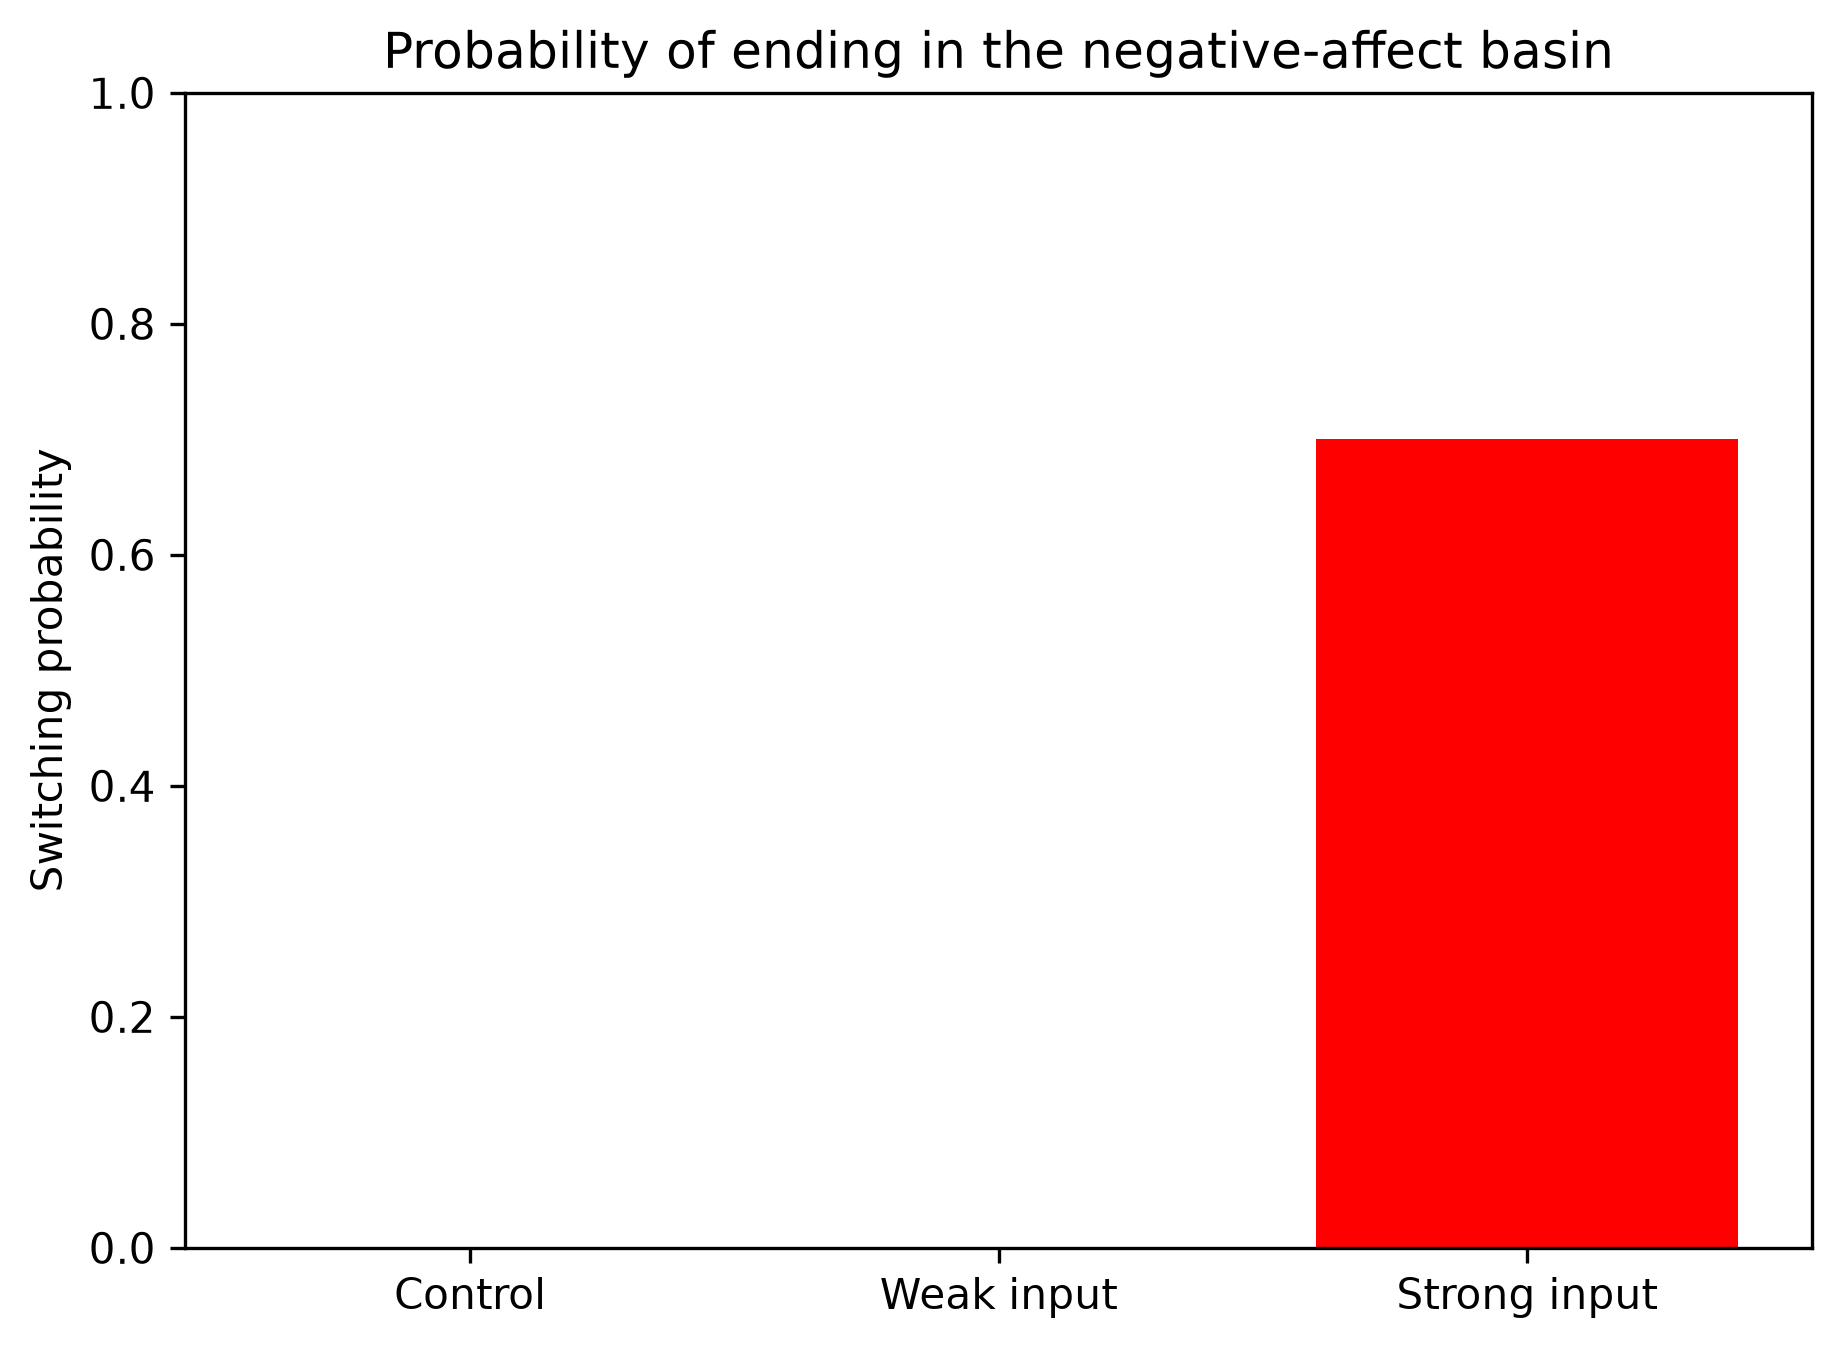
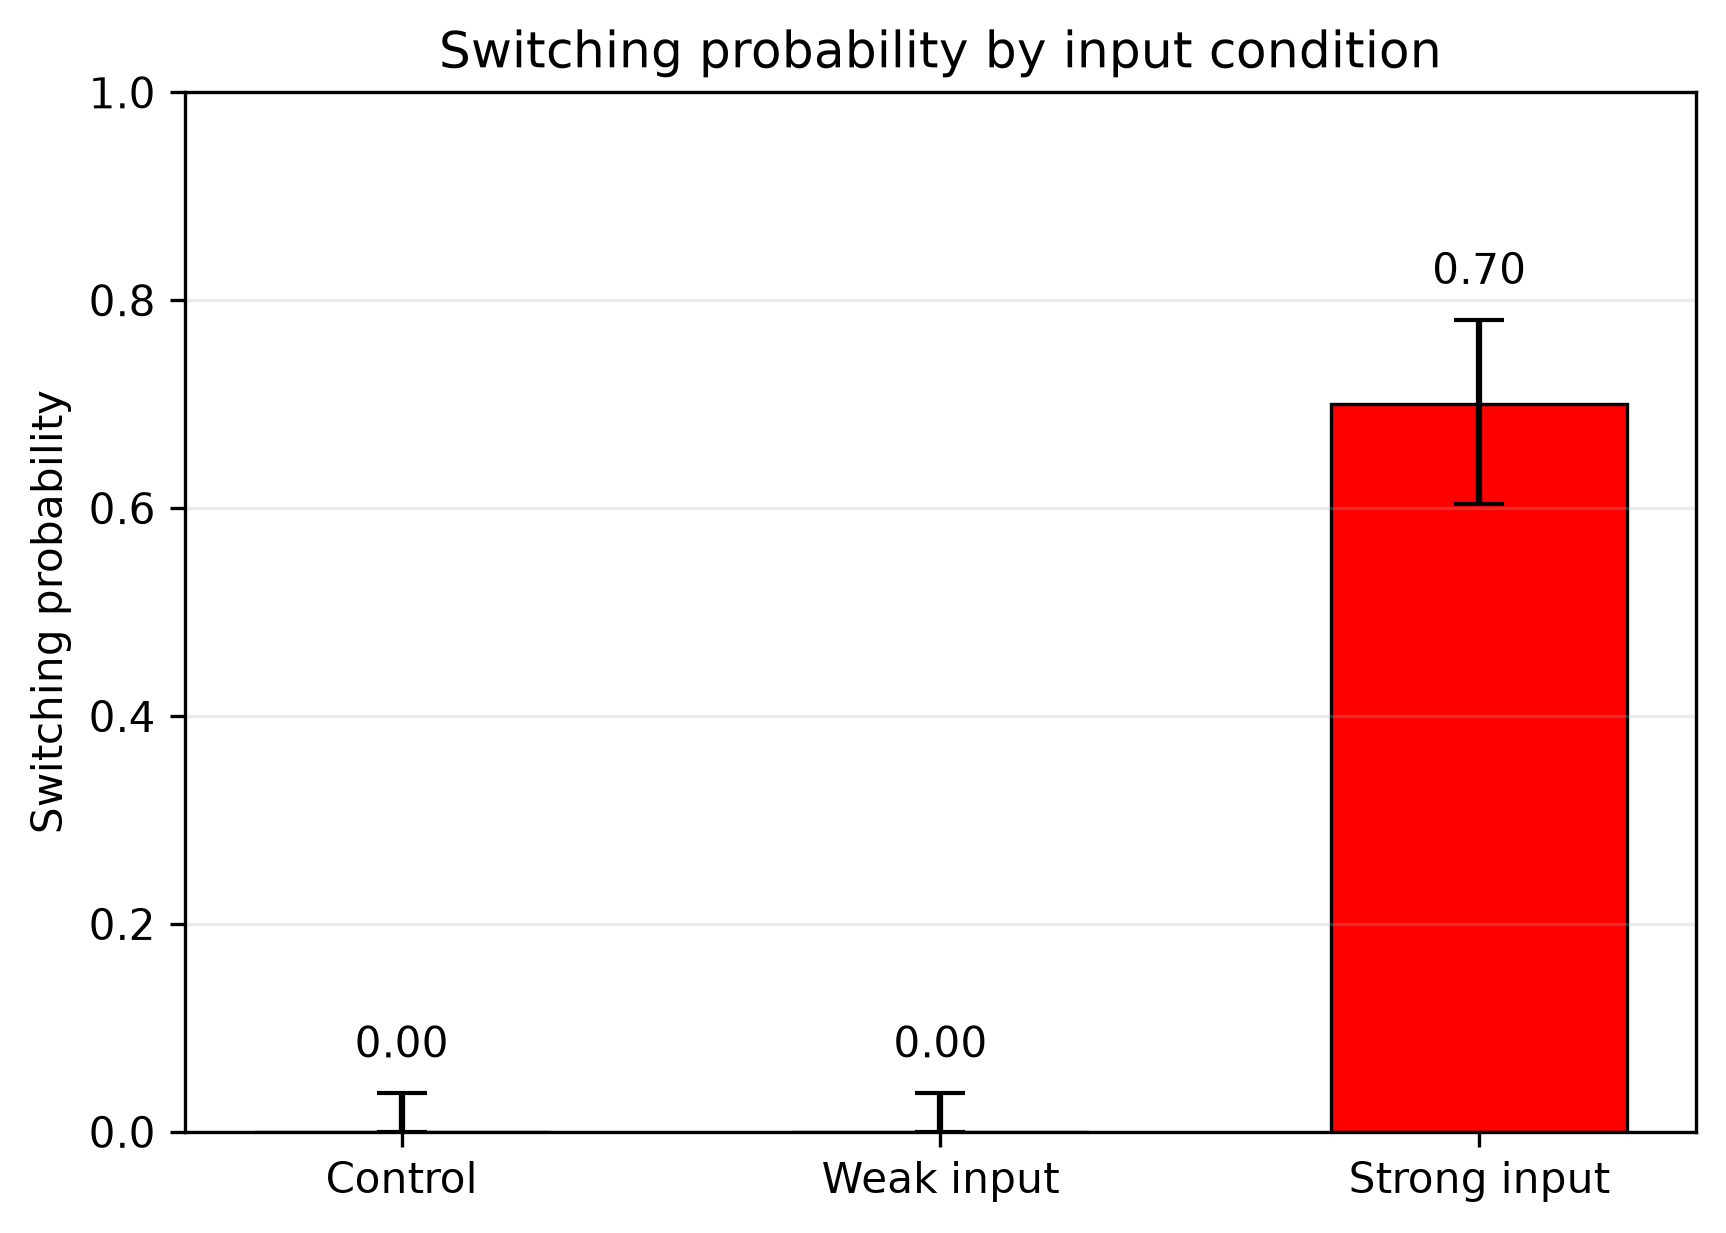
Add Monte Carlo confidence intervals

diff --git a/notebooks/06_switching_and_recovery.py b/notebooks/06_switching_and_recovery.py
@@ -40,7 +40,7 @@ print("Deepest m into negative for trajectory 1:", deepest_m_into_negative(traje
 print("Deepest m into negative for trajectory 2:", deepest_m_into_negative(trajectory2))
 # %%
 # now for N runs
-N_runs = 20 #we first use 20 runs as a pilot experiment
+N_runs = 100
 
 #we define the two negative inputs
 def weak_input(t):
@@ -169,10 +169,13 @@ for i in range(N_runs):
 # %%
 print(f"Control fraction ending in negative basin: {np.sum(ending_in_negative) / N_runs}")
 # %%
+plt.figure(figsize=(7, 5))
 plt.hist(deepest_m_values, bins=20)
 plt.title("Histogram of deepest m into negative basin")
 plt.xlabel("Deepest m value")
 plt.ylabel("Frequency")
+plt.show()
+plt.close()
 # %%
 fraction_below_threshold = []
 for threshold in np.linspace(-1, 1, 500):
@@ -185,6 +188,8 @@ plt.title("Fraction of trajectories with deepest m below threshold")
 plt.xlabel("Threshold")
 plt.ylabel("Fraction")
 plt.ylim(0, 1)
+plt.show()
+plt.close()
 
 # %%
 #we calculate the proportion of trajectories that end in the negative basin
@@ -247,26 +252,6 @@ switching_probabilities = [
     weak_probability,
     strong_probability
 ]
-
-plt.figure(figsize=(7, 5))
-
-plt.bar(
-    condition_names,
-    switching_probabilities,
-    color=["grey", "green", "red"]
-)
-
-plt.ylabel("Switching probability")
-plt.title("Probability of ending in the negative-affect basin")
-plt.ylim(0, 1)
-
-plt.savefig(
-    PROJECT_ROOT / "results/figures/monte_carlo_switching.png",
-    dpi=300,
-    bbox_inches="tight"
-)
-
-plt.show()
 # %%
 #we draw the recovery outcomes for the strong negative input
 
@@ -310,3 +295,98 @@ plt.savefig(
 )
 
 plt.show()
+plt.close()
+# %%
+#finally, we calculate the confidence intervals for the switching probabilities using the Wilson score interval
+from statsmodels.stats.proportion import proportion_confint
+control_switch_count=np.sum(ending_in_negative) #these values just count the number of trajectories that ended in the negative basin for each condition
+weak_switch_count=np.sum(weak_switches)
+strong_switch_count=np.sum(strong_switches)
+
+#now we calculate the confidence intervals
+#now we calculate the 95% confidence intervals
+control_ci = proportion_confint(control_switch_count, N_runs, 0.05, method='wilson')
+weak_ci = proportion_confint(weak_switch_count, N_runs, 0.05, method='wilson')
+strong_ci = proportion_confint(strong_switch_count, N_runs, 0.05, method='wilson')
+
+print("Control 95% confidence interval:", control_ci)
+print("Weak-input 95% confidence interval:", weak_ci)
+print("Strong-input 95% confidence interval:", strong_ci)
+
+#we prepare the results for printing
+confidence_intervals = [
+    control_ci,
+    weak_ci,
+    strong_ci
+]
+
+switching_probabilities = [
+    control_probability,
+    weak_probability,
+    strong_probability
+]
+
+lower_errors = []
+upper_errors = []
+
+for probability, interval in zip(
+    switching_probabilities,
+    confidence_intervals
+):
+    lower, upper = interval
+
+    lower_errors.append(
+        probability - lower
+    )
+
+    upper_errors.append(
+        upper - probability
+    )
+
+confidence_errors = np.array([
+    lower_errors,
+    upper_errors
+])
+#now we plot the switching probabilities with error bars
+plt.figure(figsize=(6.5, 4.5))
+bars = plt.bar(
+    condition_names,
+    switching_probabilities,
+    color=["grey", "green", "red"],
+    yerr=confidence_errors,
+    capsize=6,
+    width=0.55,
+    edgecolor="black",
+    linewidth=0.8
+)
+
+for bar, probability, interval in zip(
+    bars,
+    switching_probabilities,
+    confidence_intervals
+):
+    upper_limit = interval[1]
+    plt.text(
+        bar.get_x() + bar.get_width() / 2,
+        upper_limit + 0.025,
+        f"{probability:.2f}",
+        ha="center",
+        va="bottom"
+    )
+
+plt.ylabel("Switching probability")
+plt.title("Switching probability by input condition")
+plt.ylim(0, 1)
+plt.grid(axis="y", alpha=0.25)
+
+plt.savefig(
+    PROJECT_ROOT
+    / "results"
+    / "figures"
+    / "monte_carlo_switching.png",
+    dpi=300,
+    bbox_inches="tight"
+)
+
+plt.show()
+plt.close()
